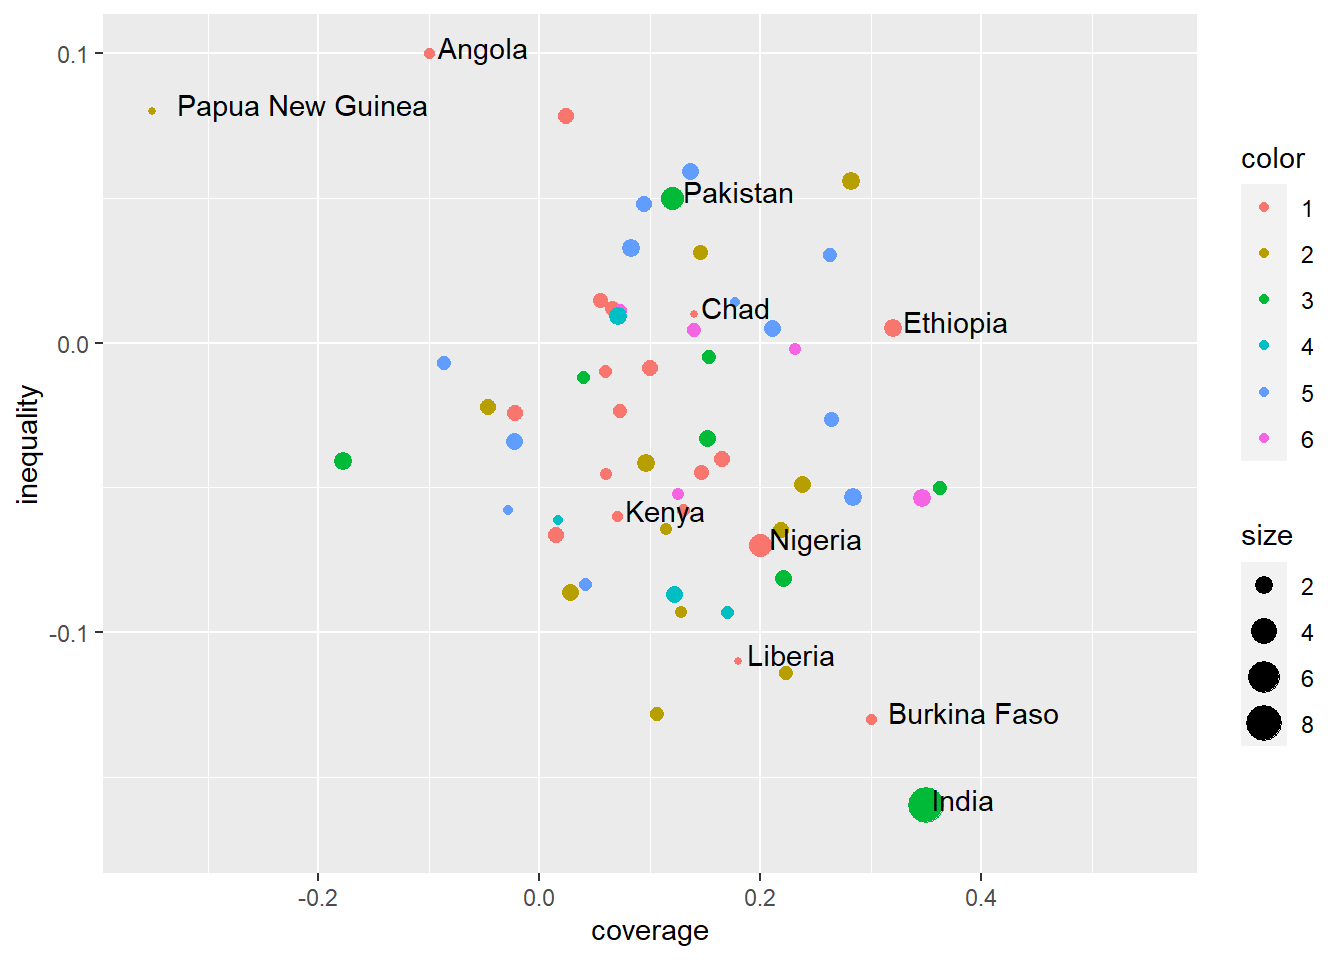
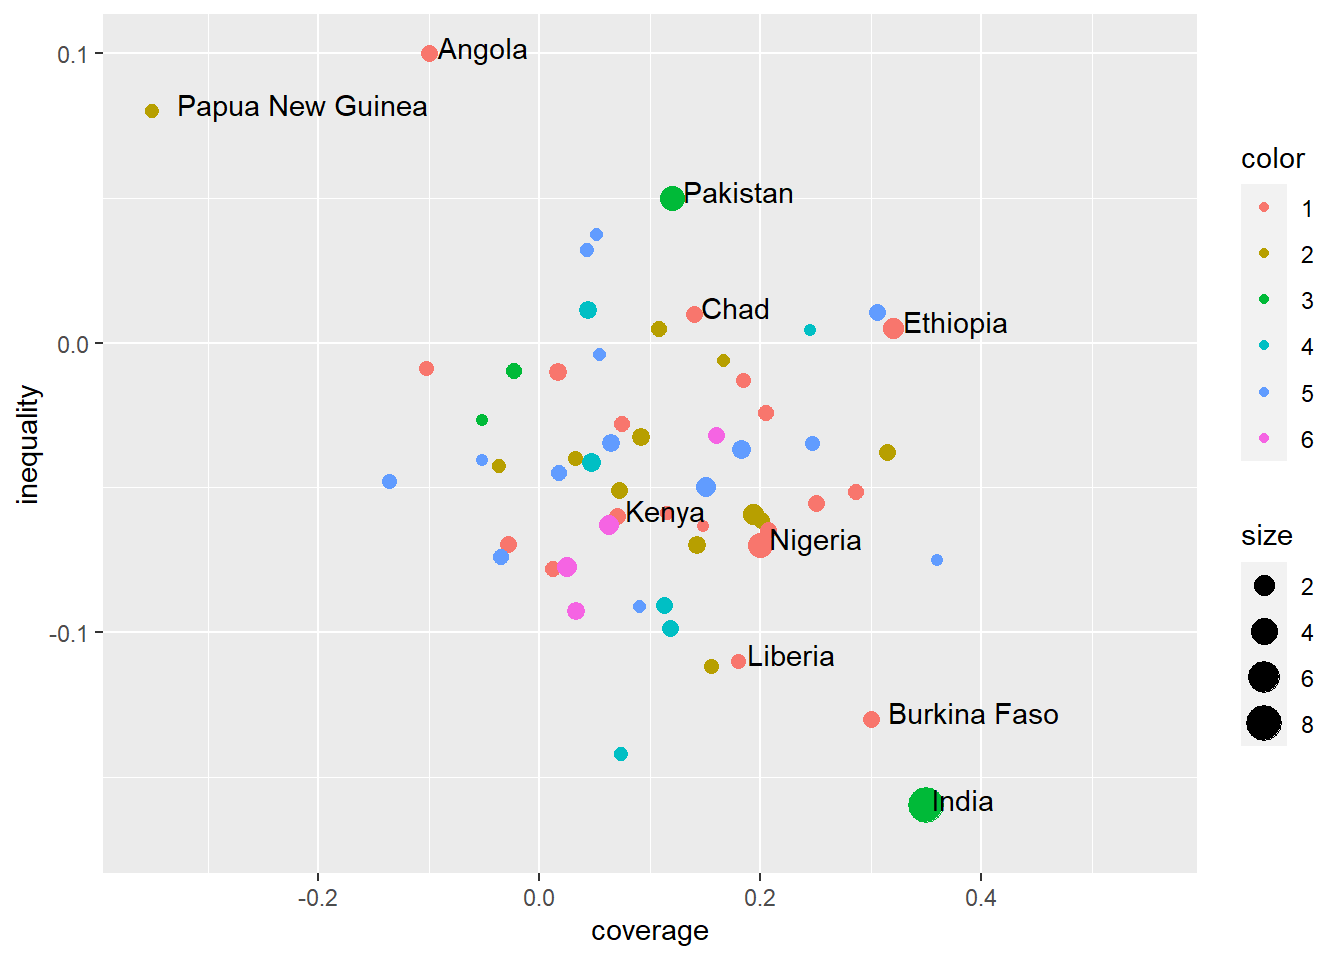
sim plot more similar to origin

diff --git a/docs/viz-practice.html b/docs/viz-practice.html
@@ -267,20 +267,20 @@ gtag('config', 'G-RDC0B0FCNZ', { 'anonymize_ip': true});
 <div class="sourceCode cell-code" id="cb2"><pre class="sourceCode r code-with-copy"><code class="sourceCode r"><span id="cb2-1"><a href="#cb2-1" aria-hidden="true" tabindex="-1"></a>country <span class="ot">&lt;-</span> <span class="fu">c</span>(<span class="st">"Angola"</span>, <span class="st">"Papua New Guinea"</span>, <span class="st">"Pakistan"</span>, <span class="st">"Chad"</span>, <span class="st">"Ethiopia"</span>, <span class="st">"Kenya"</span>, <span class="st">"Nigeria"</span>, <span class="st">"Liberia"</span>, <span class="st">"Burkina Faso"</span>, <span class="st">"India"</span>)</span>
 <span id="cb2-2"><a href="#cb2-2" aria-hidden="true" tabindex="-1"></a>coverage <span class="ot">&lt;-</span> <span class="fu">c</span>(<span class="sc">-</span><span class="fl">0.1</span>, <span class="sc">-</span><span class="fl">0.35</span>, <span class="fl">0.12</span>, <span class="fl">0.14</span>, <span class="fl">0.32</span>, <span class="fl">0.07</span>, <span class="fl">0.2</span>, <span class="fl">0.18</span>, <span class="fl">0.3</span>, <span class="fl">0.35</span>)</span>
 <span id="cb2-3"><a href="#cb2-3" aria-hidden="true" tabindex="-1"></a>inequality <span class="ot">&lt;-</span> <span class="fu">c</span>(<span class="fl">0.1</span>, <span class="fl">0.08</span>, <span class="fl">0.05</span>, <span class="fl">0.01</span>, <span class="fl">0.005</span>, <span class="sc">-</span><span class="fl">0.06</span>, <span class="sc">-</span><span class="fl">0.07</span>, <span class="sc">-</span><span class="fl">0.11</span>, <span class="sc">-</span><span class="fl">0.13</span>, <span class="sc">-</span><span class="fl">0.16</span>)</span>
-<span id="cb2-4"><a href="#cb2-4" aria-hidden="true" tabindex="-1"></a>df_plot <span class="ot">&lt;-</span> <span class="fu">data.frame</span>(country, inequality, coverage)</span>
+<span id="cb2-4"><a href="#cb2-4" aria-hidden="true" tabindex="-1"></a>df_plot <span class="ot">&lt;-</span> <span class="fu">data.frame</span>(country, coverage, inequality)</span>
 <span id="cb2-5"><a href="#cb2-5" aria-hidden="true" tabindex="-1"></a>df_plot</span></code><button title="Copy to Clipboard" class="code-copy-button"><i class="bi"></i></button></pre></div>
 <div class="cell-output cell-output-stdout">
-<pre><code>            country inequality coverage
-1            Angola      0.100    -0.10
-2  Papua New Guinea      0.080    -0.35
-3          Pakistan      0.050     0.12
-4              Chad      0.010     0.14
-5          Ethiopia      0.005     0.32
-6             Kenya     -0.060     0.07
-7           Nigeria     -0.070     0.20
-8           Liberia     -0.110     0.18
-9      Burkina Faso     -0.130     0.30
-10            India     -0.160     0.35</code></pre>
+<pre><code>            country coverage inequality
+1            Angola    -0.10      0.100
+2  Papua New Guinea    -0.35      0.080
+3          Pakistan     0.12      0.050
+4              Chad     0.14      0.010
+5          Ethiopia     0.32      0.005
+6             Kenya     0.07     -0.060
+7           Nigeria     0.20     -0.070
+8           Liberia     0.18     -0.110
+9      Burkina Faso     0.30     -0.130
+10            India     0.35     -0.160</code></pre>
 </div>
 </div>
 <p>Chúng ta sẽ vẽ biểu đồ cho 10 quốc gia này trước. Dạng biểu đồ scatterplot trong <code>ggplot</code> tương ứng với <code>geom_point()</code>.</p>
@@ -313,21 +313,21 @@ gtag('config', 'G-RDC0B0FCNZ', { 'anonymize_ip': true});
 </div>
 <p>Các điểm trong biểu đồ gốc có màu sắc và kích thước to nhỏ khác nhau, vậy trong data frame cần có thêm 1 cột màu sắc và 1 cột kích thước.</p>
 <div class="cell">
-<div class="sourceCode cell-code" id="cb7"><pre class="sourceCode r code-with-copy"><code class="sourceCode r"><span id="cb7-1"><a href="#cb7-1" aria-hidden="true" tabindex="-1"></a>df_plot<span class="sc">$</span>size <span class="ot">&lt;-</span> <span class="fu">c</span>(<span class="fl">1.1</span>, <span class="dv">1</span>, <span class="dv">3</span>, <span class="dv">1</span>, <span class="dv">2</span>, <span class="fl">1.1</span>, <span class="dv">3</span>, <span class="dv">1</span>, <span class="fl">1.1</span>, <span class="dv">8</span>)</span>
+<div class="sourceCode cell-code" id="cb7"><pre class="sourceCode r code-with-copy"><code class="sourceCode r"><span id="cb7-1"><a href="#cb7-1" aria-hidden="true" tabindex="-1"></a>df_plot<span class="sc">$</span>size <span class="ot">&lt;-</span> <span class="fu">c</span>(<span class="fl">1.1</span>, <span class="fl">0.6</span>, <span class="dv">3</span>, <span class="dv">1</span>, <span class="dv">2</span>, <span class="fl">1.1</span>, <span class="dv">3</span>, <span class="fl">0.7</span>, <span class="fl">1.1</span>, <span class="dv">8</span>)</span>
 <span id="cb7-2"><a href="#cb7-2" aria-hidden="true" tabindex="-1"></a>df_plot<span class="sc">$</span>color <span class="ot">&lt;-</span> <span class="fu">c</span>(<span class="dv">1</span>, <span class="dv">2</span>, <span class="dv">3</span>, <span class="dv">1</span>, <span class="dv">1</span>, <span class="dv">1</span>, <span class="dv">1</span>, <span class="dv">1</span>, <span class="dv">1</span>, <span class="dv">3</span>)</span>
 <span id="cb7-3"><a href="#cb7-3" aria-hidden="true" tabindex="-1"></a>df_plot</span></code><button title="Copy to Clipboard" class="code-copy-button"><i class="bi"></i></button></pre></div>
 <div class="cell-output cell-output-stdout">
-<pre><code>            country inequality coverage size color
-1            Angola      0.100    -0.10  1.1     1
-2  Papua New Guinea      0.080    -0.35  1.0     2
-3          Pakistan      0.050     0.12  3.0     3
-4              Chad      0.010     0.14  1.0     1
-5          Ethiopia      0.005     0.32  2.0     1
-6             Kenya     -0.060     0.07  1.1     1
-7           Nigeria     -0.070     0.20  3.0     1
-8           Liberia     -0.110     0.18  1.0     1
-9      Burkina Faso     -0.130     0.30  1.1     1
-10            India     -0.160     0.35  8.0     3</code></pre>
+<pre><code>            country coverage inequality size color
+1            Angola    -0.10      0.100  1.1     1
+2  Papua New Guinea    -0.35      0.080  0.6     2
+3          Pakistan     0.12      0.050  3.0     3
+4              Chad     0.14      0.010  1.0     1
+5          Ethiopia     0.32      0.005  2.0     1
+6             Kenya     0.07     -0.060  1.1     1
+7           Nigeria     0.20     -0.070  3.0     1
+8           Liberia     0.18     -0.110  0.7     1
+9      Burkina Faso     0.30     -0.130  1.1     1
+10            India     0.35     -0.160  8.0     3</code></pre>
 </div>
 </div>
 <p>Bây giờ chúng ta có thể thêm màu sắc và kích thước vào <code>geom_point()</code>.</p>
@@ -346,28 +346,28 @@ gtag('config', 'G-RDC0B0FCNZ', { 'anonymize_ip': true});
 <div class="sourceCode cell-code" id="cb10"><pre class="sourceCode r code-with-copy"><code class="sourceCode r"><span id="cb10-1"><a href="#cb10-1" aria-hidden="true" tabindex="-1"></a><span class="fu">set.seed</span>(<span class="dv">123</span>)</span>
 <span id="cb10-2"><a href="#cb10-2" aria-hidden="true" tabindex="-1"></a>np <span class="ot">&lt;-</span> <span class="dv">50</span></span>
 <span id="cb10-3"><a href="#cb10-3" aria-hidden="true" tabindex="-1"></a>rd <span class="ot">&lt;-</span> <span class="fu">data.frame</span>(<span class="at">country =</span> <span class="fu">rep</span>(<span class="st">""</span>, np),</span>
-<span id="cb10-4"><a href="#cb10-4" aria-hidden="true" tabindex="-1"></a>                 <span class="at">inequality =</span> <span class="fu">rnorm</span>(<span class="at">n =</span> np, <span class="at">mean =</span> <span class="sc">-</span><span class="fl">0.03</span>, <span class="at">sd =</span> <span class="fl">0.05</span>),</span>
-<span id="cb10-5"><a href="#cb10-5" aria-hidden="true" tabindex="-1"></a>                 <span class="at">coverage =</span> <span class="fu">rnorm</span>(<span class="at">n =</span> np, <span class="at">mean =</span> <span class="fl">0.1</span>, <span class="at">sd =</span> <span class="fl">0.12</span>),</span>
-<span id="cb10-6"><a href="#cb10-6" aria-hidden="true" tabindex="-1"></a>                 <span class="at">size =</span> <span class="fu">runif</span>(np, <span class="at">min =</span> <span class="dv">1</span>, <span class="at">max =</span> <span class="dv">2</span>),</span>
+<span id="cb10-4"><a href="#cb10-4" aria-hidden="true" tabindex="-1"></a>                 <span class="at">coverage =</span> <span class="fu">rnorm</span>(<span class="at">n =</span> np, <span class="at">mean =</span> <span class="fl">0.1</span>, <span class="at">sd =</span> <span class="fl">0.12</span>),</span>
+<span id="cb10-5"><a href="#cb10-5" aria-hidden="true" tabindex="-1"></a>                 <span class="at">inequality =</span> <span class="fu">rnorm</span>(<span class="at">n =</span> np, <span class="at">mean =</span> <span class="sc">-</span><span class="fl">0.05</span>, <span class="at">sd =</span> <span class="fl">0.04</span>),</span>
+<span id="cb10-6"><a href="#cb10-6" aria-hidden="true" tabindex="-1"></a>                 <span class="at">size =</span> <span class="fu">rnorm</span>(<span class="at">n =</span> np, <span class="at">mean =</span> <span class="dv">1</span>, <span class="at">sd =</span> <span class="fl">0.4</span>),</span>
 <span id="cb10-7"><a href="#cb10-7" aria-hidden="true" tabindex="-1"></a>                 <span class="at">color =</span> <span class="fu">sample</span>(<span class="dv">1</span><span class="sc">:</span><span class="dv">6</span>, np, <span class="at">replace =</span> T))</span>
 <span id="cb10-8"><a href="#cb10-8" aria-hidden="true" tabindex="-1"></a><span class="fu">head</span>(rd)</span></code><button title="Copy to Clipboard" class="code-copy-button"><i class="bi"></i></button></pre></div>
 <div class="cell-output cell-output-stdout">
-<pre><code>  country  inequality   coverage     size color
-1         -0.05802378 0.13039822 1.238726     1
-2         -0.04150887 0.09657439 1.962359     2
-3          0.04793542 0.09485555 1.601366     5
-4         -0.02647458 0.26423227 1.515030     5
-5         -0.02353561 0.07290748 1.402573     1
-6          0.05575325 0.28197647 1.880247     2</code></pre>
+<pre><code>  country   coverage   inequality      size color
+1         0.03274292 -0.039867259 0.7158374     2
+2         0.07237870 -0.051141870 1.1027535     2
+3         0.28704500 -0.051714818 0.9013232     1
+4         0.10846101  0.004744091 0.8609830     2
+5         0.11551453 -0.059030839 0.6193526     1
+6         0.30580780  0.010658824 0.9819889     5</code></pre>
 </div>
 </div>
 <ul>
 <li><code>set.seed(123)</code>: dùng để cố định cách tạo ra các điểm ngẫu nhiên.</li>
 <li><code>np &lt;- 50</code>: tạo ra 50 điểm ngẫu nhiên.</li>
 <li><code>country = rep("", np)</code>: các điểm này không có tên quốc gia.</li>
-<li><code>inequality = rnorm(n = np, mean = -0.03, sd = 0.05)</code>: sự thay đổi bất bình đẳng địa lý (giá trị trên trục y) của các điểm này được tạo ra ngẫu nhiên theo phân phối bình thường với trung bình là -0.03 và độ lệch chuẩn là 0.05.</li>
-<li><code>coverage = rnorm(n = np, mean = 0.1, sd = 0.12)</code>: sự thay đổi độ phủ vaccine (giá trị trên trục x) của các điểm này được tạo ra ngẫu nhiên theo phân phối bình thường với trung bình là 0.1 và độ lệch chuẩn là 0.12.</li>
-<li><code>size = runif(np, min = 1, max = 2)</code>: kích thước các điểm này là số thực ngẫu nhiên từ 1 đến 2.</li>
+<li><code>coverage = rnorm(n = np, mean = 0.1, sd = 0.12)</code>: sự thay đổi độ phủ vaccine (giá trị trên trục x) của các điểm này là số thực được tạo ra ngẫu nhiên theo phân phối bình thường với trung bình là 0.1 và độ lệch chuẩn là 0.12.</li>
+<li><code>inequality = rnorm(n = np, mean = -0.05, sd = 0.04)</code>: sự thay đổi bất bình đẳng địa lý (giá trị trên trục y) của các điểm này là số thực được tạo ra ngẫu nhiên theo phân phối bình thường với trung bình là -0.05 và độ lệch chuẩn là 0.04.</li>
+<li><code>size = rnorm(n = np, mean = 1, sd = 0.4)</code>: kích thước của các điểm này là số thực được tạo ra ngẫu nhiên theo phân phối bình thường với trung bình là 1 và độ lệch chuẩn là 0.4.</li>
 <li><code>color = sample(1:6, np, replace = T)</code>: màu sắc là số nguyên ngẫu nhiên từ 1 đến 6.</li>
 </ul>
 <p>Bây giờ chúng ta ghép data frame <code>rd</code> này với data frame của biểu đồ <code>df_plot</code>. Cột màu sắc được đưa về dạng <code>factor</code> để hiển thị màu. Sau đó dùng code <code>ggplot</code> trên để vẽ.</p>
@@ -396,7 +396,7 @@ gtag('config', 'G-RDC0B0FCNZ', { 'anonymize_ip': true});
 <span id="cb13-6"><a href="#cb13-6" aria-hidden="true" tabindex="-1"></a>  <span class="fu">geom_vline</span>(<span class="at">xintercept =</span> <span class="dv">0</span>) <span class="sc">+</span></span>
 <span id="cb13-7"><a href="#cb13-7" aria-hidden="true" tabindex="-1"></a>  <span class="fu">geom_hline</span>(<span class="at">yintercept =</span> <span class="dv">0</span>) <span class="sc">+</span></span>
 <span id="cb13-8"><a href="#cb13-8" aria-hidden="true" tabindex="-1"></a>  <span class="fu">scale_color_npg</span>() <span class="sc">+</span></span>
-<span id="cb13-9"><a href="#cb13-9" aria-hidden="true" tabindex="-1"></a>  <span class="fu">scale_size_continuous</span>(<span class="at">range =</span> <span class="fu">c</span>(<span class="dv">1</span>, <span class="dv">10</span>)) <span class="sc">+</span></span>
+<span id="cb13-9"><a href="#cb13-9" aria-hidden="true" tabindex="-1"></a>  <span class="fu">scale_size_continuous</span>(<span class="at">range =</span> <span class="fu">c</span>(<span class="dv">0</span>, <span class="dv">10</span>)) <span class="sc">+</span></span>
 <span id="cb13-10"><a href="#cb13-10" aria-hidden="true" tabindex="-1"></a>  <span class="fu">theme_classic</span>() <span class="sc">+</span></span>
 <span id="cb13-11"><a href="#cb13-11" aria-hidden="true" tabindex="-1"></a>  <span class="fu">theme</span>(<span class="at">legend.position =</span> <span class="st">"none"</span>)</span></code><button title="Copy to Clipboard" class="code-copy-button"><i class="bi"></i></button></pre></div>
 <div class="cell-output-display">
